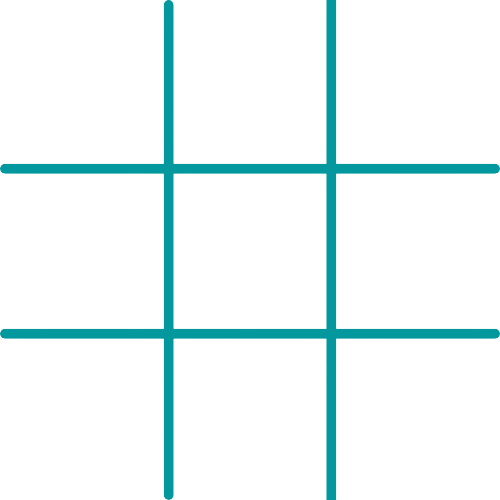
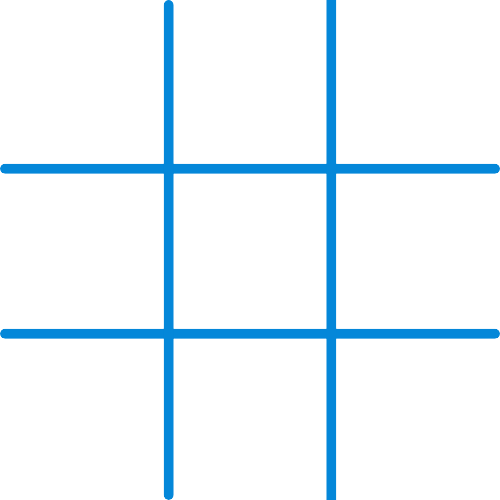
feat: melhorias na interface e responsividade

Changed region(s): [[0.0, 0.0, 1.0, 1.0]]

diff --git a/style.css b/style.css
@@ -2,27 +2,34 @@
 
 body {
   text-align: center;
-  background-color: #14BCAB;
+  background-color: #074073;
+  font-size: 60px;
+  letter-spacing: 10px;
 }
 
 h1 {
-  font-family: Arial, Helvetica, sans-serif;
+  font-family: 'Londrina Solid', cursive;
   color: white;
+  font-size: 3rem;
+  letter-spacing: 10px;
 }
 
 .stage {
-  height: 80vh;
+  height: 60vh;
   display: flex;
   align-items: center;
   justify-content: center;
+  /* background-color: red; */
 }
 
 .stage2 {
   display: grid;
   grid-template-columns: 1fr 1fr 1fr;
   grid-template-rows: 1fr 1fr 1fr;
-  width: 450px;
-  height: 450px;
+  width: 80vw;
+  height: 80vw;
+  max-width: 450px;
+  max-height: 450px;
   background-image: url(assets/fundo.png);
   background-size: cover;
   background-position: center; /* Center the image */
@@ -33,13 +40,11 @@ h1 {
   display: grid;
   justify-items: center;
   align-items: center;
-  width: 150px;
-  height: 150px;
   cursor: pointer;
 }
 
 img {
-  width: 100px;
+  width: 66%;
 }
 
 

diff --git a/index.html b/index.html
@@ -9,18 +9,18 @@
 
 <link rel="stylesheet" href="style.css">
 
+<link rel="preconnect" href="https://fonts.googleapis.com">
+<link rel="preconnect" href="https://fonts.gstatic.com" crossorigin>
+<link href="https://fonts.googleapis.com/css2?family=Londrina+Solid:wght@300;900&display=swap" rel="stylesheet">
+
 <body>
   
-  <h1>Jogo da Velha</h1>
+  <h1>JOGO DA VELHA</h1>
 
   <div class="stage">
     <div class="stage2">
-        <div id="0" class="square">
-          <!-- <img src="assets/x.svg" alt="cross"> -->
-        </div>
-        <div id="1" class="square">
-          <!-- <img src="assets/o.svg" alt="cross"> -->
-        </div>
+        <div id="0" class="square"></div>
+        <div id="1" class="square"></div>
         <div id="2" class="square"></div>
         <div id="3" class="square"></div>
         <div id="4" class="square"></div>

diff --git a/scripts/interface.js b/scripts/interface.js
@@ -52,13 +52,13 @@ function updateSquares(position) {
 
   if(gameOver){
     for(let seq of seqFinal) {
-      document.getElementById(seq.toString()).style.backgroundColor = "green";
+      document.getElementById(seq.toString()).style.backgroundColor = "#0487D9";
     }
   }
 
   if(click==9 && gameOver==false) {
     for(let i=0; i<9; i++){  
-      document.getElementById(i.toString()).style.backgroundColor = "yellow";
+      document.getElementById(i.toString()).style.backgroundColor = "#F2994B";
     }
   }
 
